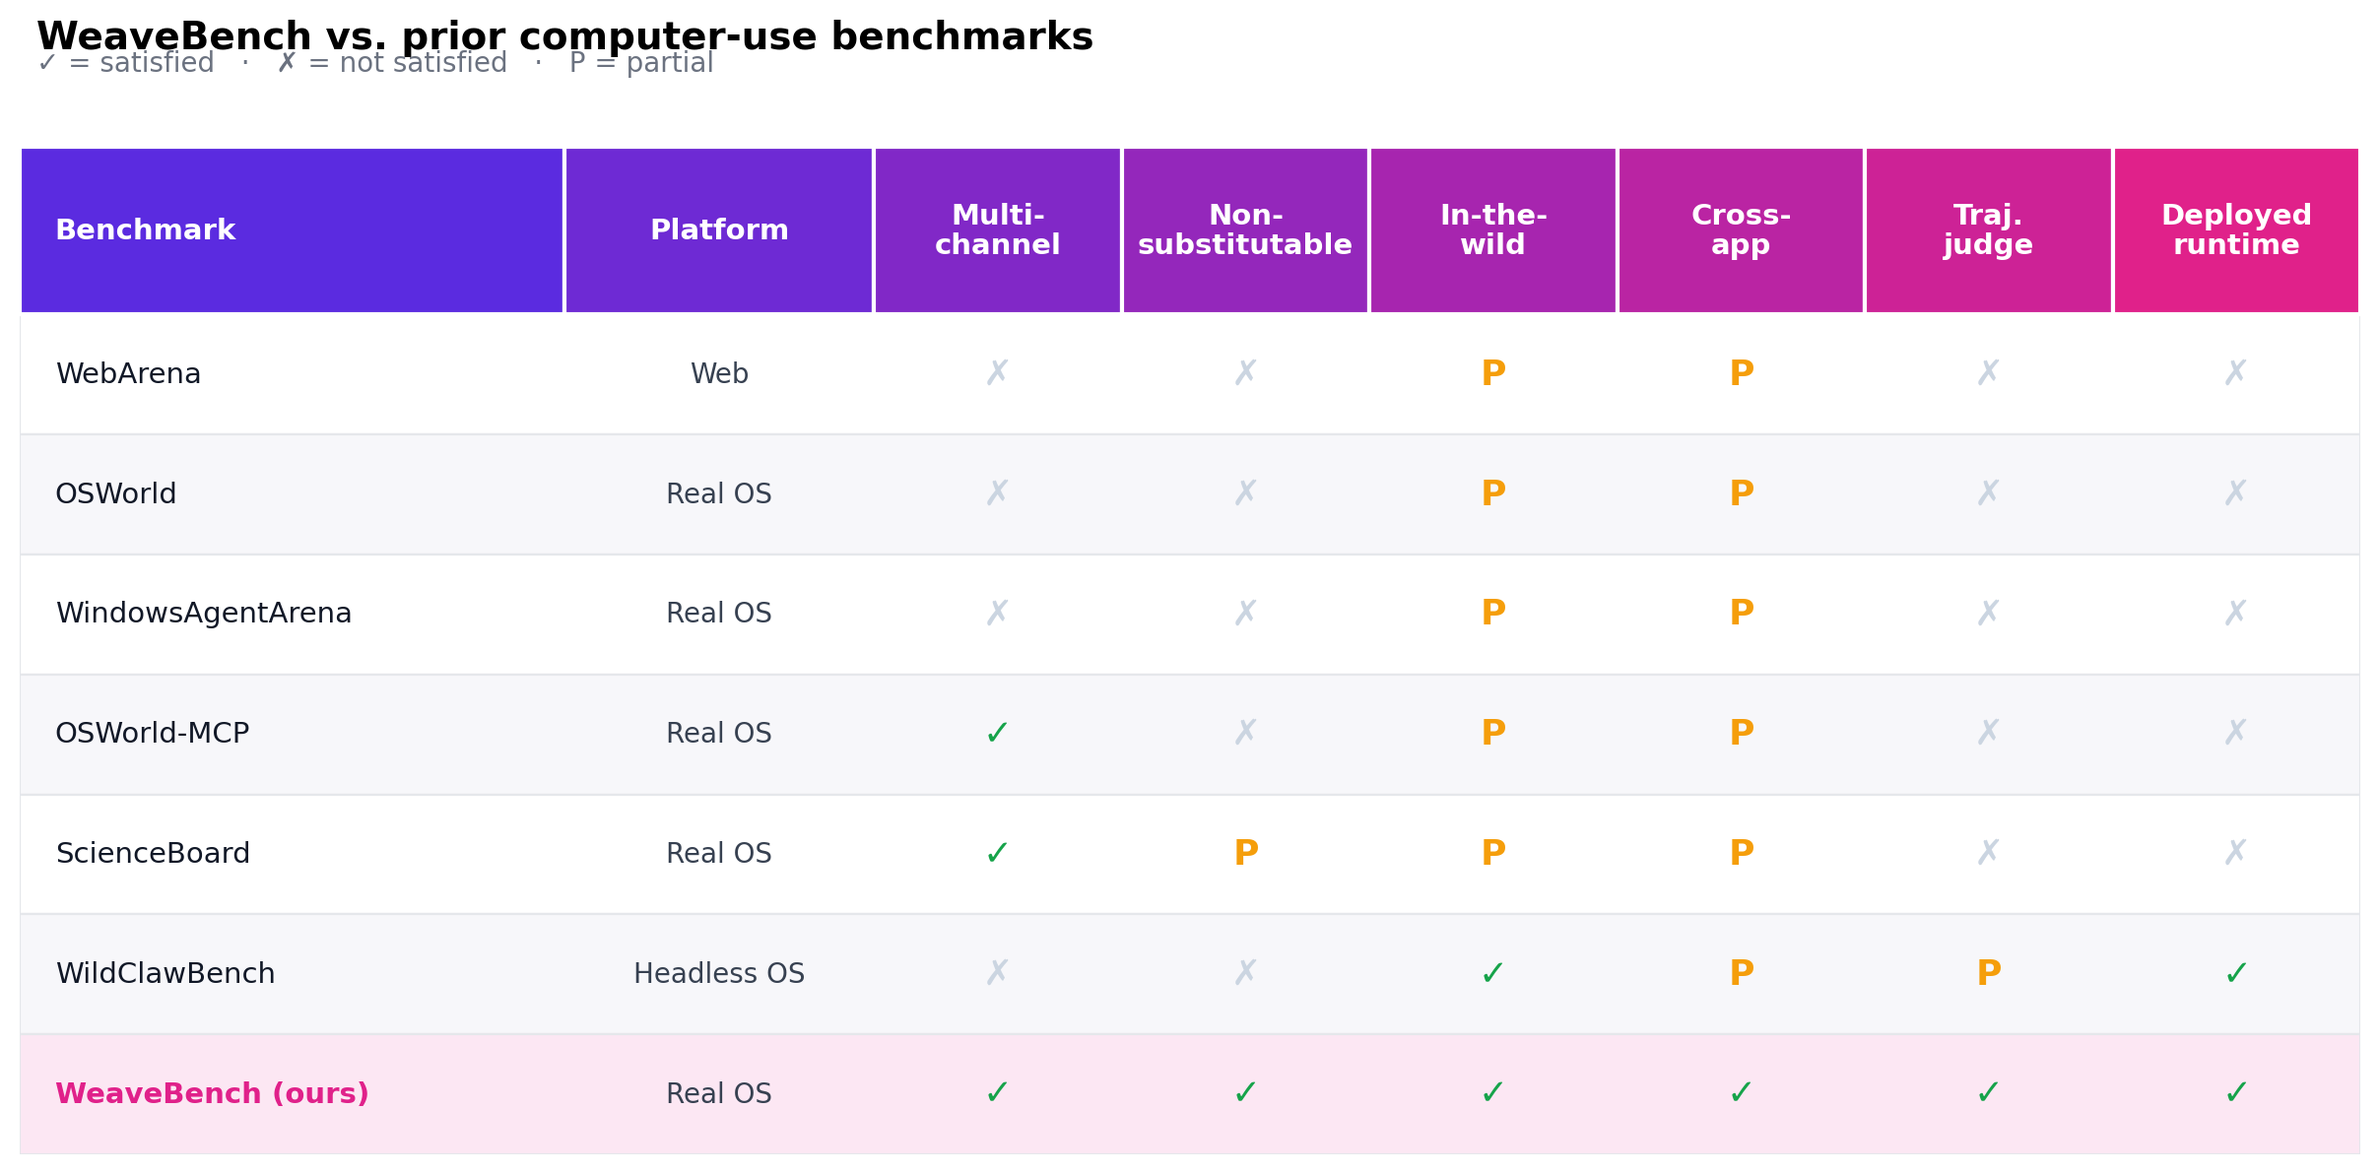
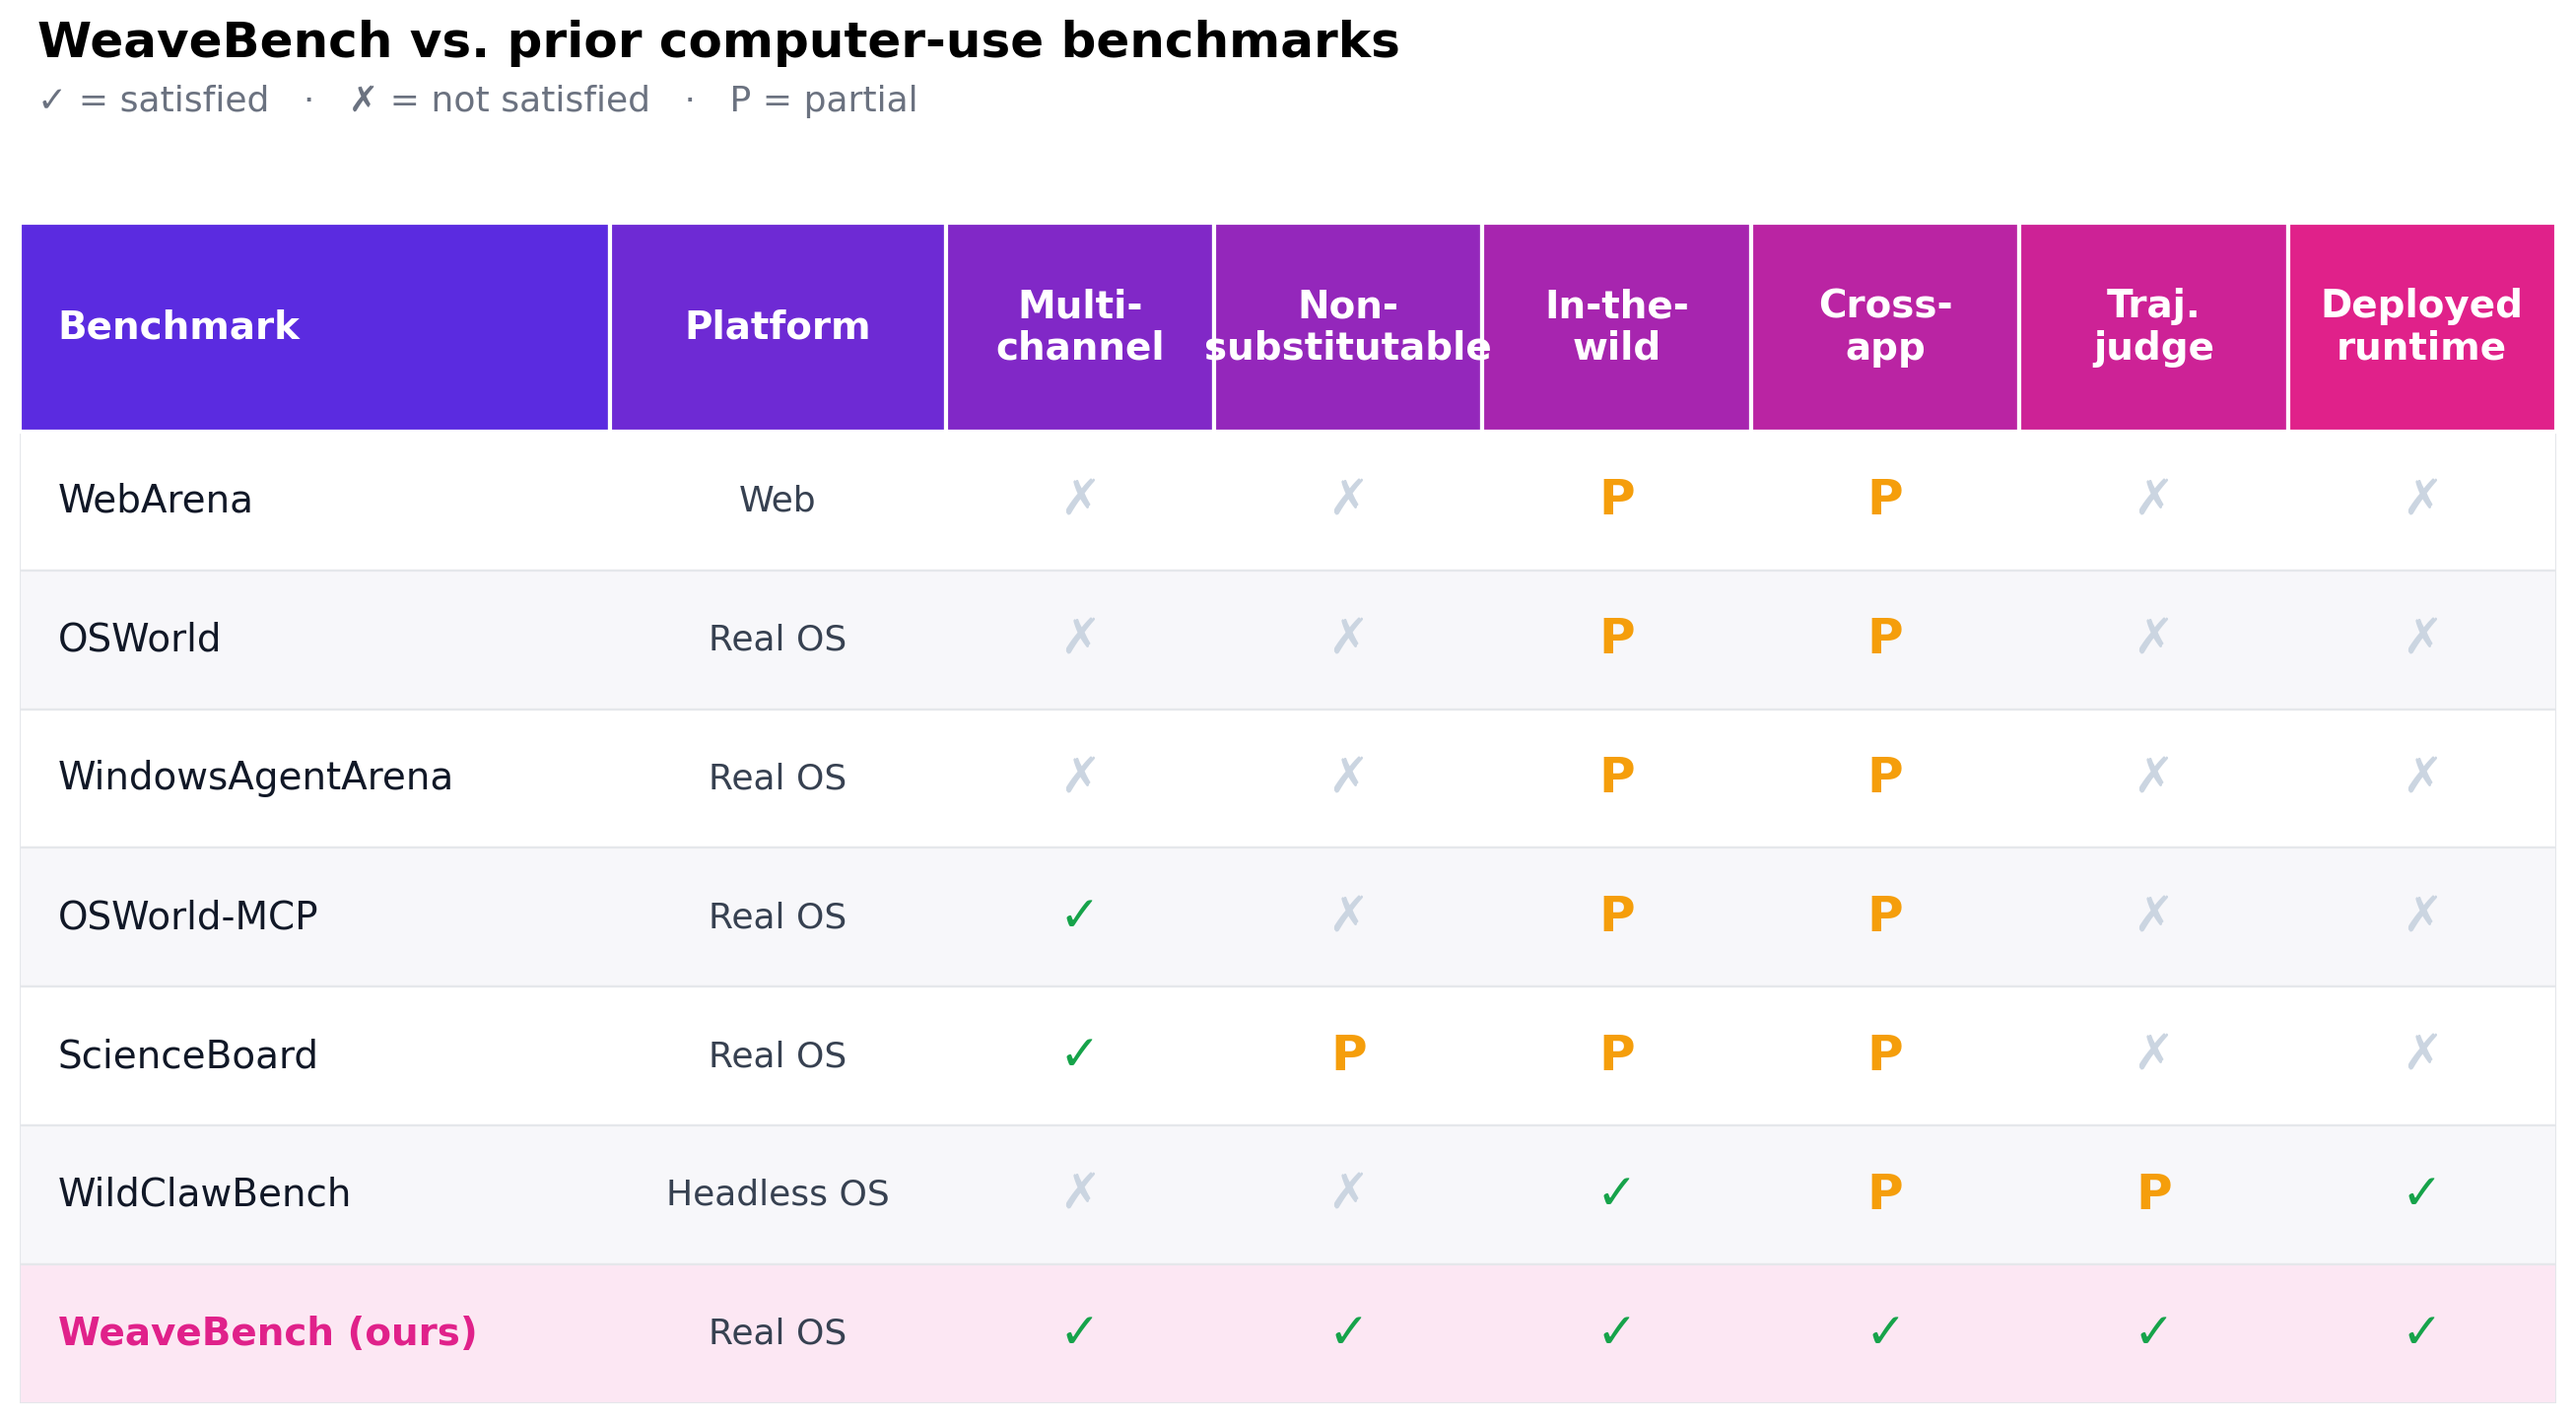
docs: fix duplicate heading, video embed, table widths + bigger table font
- Remove the duplicated "Why hybrid interfaces?" heading; drop the parens
- Embed the demo video as a bare GitHub raw URL (GitHub strips <video> tags,
  so the player never rendered)
- Widen the comparison + leaderboard table images to 100%
- Regenerate comparison_table.png with larger fonts and no title overlap

diff --git a/docs/media/make_comparison_table.py b/docs/media/make_comparison_table.py
@@ -38,8 +38,8 @@ n_rows = len(ROWS)
 n_cols = len(COLS)
 
 # Header occupies 1.4 row-heights to fit the two-line labels; rows start below.
-HDR_H = 1.4
-fig_w, fig_h = 12.0, 0.6 * (n_rows + HDR_H + 1.4)
+HDR_H = 1.5
+fig_w, fig_h = 13.0, 0.72 * (n_rows + HDR_H + 1.4)
 fig, ax = plt.subplots(figsize=(fig_w, fig_h), dpi=200)
 ax.set_xlim(0, n_cols)
 ax.set_ylim(0, n_rows + HDR_H)
@@ -62,8 +62,8 @@ for c in range(n_cols):
                                facecolor=grad, edgecolor="white", lw=1.5, zorder=1))
     ha = "left" if c == 0 else "center"
     tx = col_x[c] + 0.12 if c == 0 else cell_center(c)
-    ax.text(tx, hy + HDR_H / 2, COLS[c], color="white", fontsize=10.5,
-            fontweight="bold", ha=ha, va="center", linespacing=1.1, zorder=2)
+    ax.text(tx, hy + HDR_H / 2, COLS[c], color="white", fontsize=14,
+            fontweight="bold", ha=ha, va="center", linespacing=1.15, zorder=2)
 
 # --- data rows ---
 for r, row in enumerate(ROWS):
@@ -78,22 +78,22 @@ for r, row in enumerate(ROWS):
     for c, val in enumerate(row):
         if c == 0:
             color = PINK if is_ours else "#111827"
-            ax.text(col_x[0] + 0.12, y + 0.5, val, color=color, fontsize=10.5,
+            ax.text(col_x[0] + 0.12, y + 0.5, val, color=color, fontsize=14,
                     fontweight="bold" if is_ours else "normal",
                     ha="left", va="center", zorder=2)
         elif c == 1:
             ax.text(cell_center(c), y + 0.5, val, color="#374151",
-                    fontsize=10, ha="center", va="center", zorder=2)
+                    fontsize=13, ha="center", va="center", zorder=2)
         else:
             color = SYM_COLOR.get(val, "#111827")
-            ax.text(cell_center(c), y + 0.5, val, color=color, fontsize=13,
+            ax.text(cell_center(c), y + 0.5, val, color=color, fontsize=18,
                     fontweight="bold", ha="center", va="center", zorder=2)
 
 # --- title + subtitle above the table ---
-fig.suptitle(TITLE, x=0.012, y=0.99, ha="left", fontsize=14, fontweight="bold")
-fig.text(0.012, 0.945, SUBTITLE, ha="left", fontsize=10, color="#6b7280")
+fig.suptitle(TITLE, x=0.012, y=0.995, ha="left", fontsize=18, fontweight="bold")
+fig.text(0.012, 0.93, SUBTITLE, ha="left", fontsize=13, color="#6b7280")
 
-plt.subplots_adjust(left=0.005, right=0.995, top=0.88, bottom=0.01)
+plt.subplots_adjust(left=0.005, right=0.995, top=0.85, bottom=0.01)
 out = __file__.rsplit("/", 1)[0] + "/comparison_table.png"
 fig.savefig(out, dpi=200, bbox_inches="tight", facecolor="white")
 print("wrote", out)

diff --git a/README.md b/README.md
@@ -33,15 +33,10 @@
 
 ## 🎬 Demo
 
-<p align="center">
-  <video src="https://github.com/weavebench/WeaveBench/raw/main/docs/media/rabbitmq_dlq_demo.mp4" width="100%" controls muted>
-    <!-- Fallback for renderers that don't inline video (e.g. some mirrors) -->
-    <a href="https://weavebench.github.io/static/videos/rabbitmq_dlq_topology_mgmt.mp4">▶ Watch the demo</a>
-  </video>
-</p>
+https://github.com/weavebench/WeaveBench/raw/main/docs/media/rabbitmq_dlq_demo.mp4
 
 <p align="center">
-  <em>An agent diagnosing a RabbitMQ dead-letter-queue routing black-hole end-to-end (OPS domain, sped up 10×). It cross-checks the broker over the CLI and the Management UI on screen, fixes the binding, and re-verifies — exactly the GUI↔CLI interleaving WeaveBench requires.</em>
+  <em>An agent diagnosing a RabbitMQ dead-letter-queue routing black-hole end-to-end (OPS domain, sped up 10×). It cross-checks the broker over the CLI and the Management UI on screen, fixes the binding, and re-verifies — exactly the GUI↔CLI interleaving WeaveBench requires. Can't see the player? <a href="https://weavebench.github.io/static/videos/rabbitmq_dlq_topology_mgmt.mp4">Watch the demo here</a>.</em>
 </p>
 
 <br />
@@ -54,14 +49,12 @@
   <em>Three more cross-channel workflows at a glance. Browse <a href="https://weavebench.github.io">all task demos on the website</a>.</em>
 </p>
 
-## Why hybrid interfaces? (the core claim)
-
-## Why hybrid interfaces? (the core claim)
+## Why hybrid interfaces?
 
 GUI and CLI/code carry **fundamentally different state**, so neither suffices alone — GUIs expose transient rendered state (canvases, dialogs, chart tooltips, spatial layout) that no API returns, while CLI/code carries persistent scriptable state (source, configs, logs, services) that no screenshot can produce. WeaveBench admits a task only when success *requires* weaving the two together (criterion P1 in the paper). That single admission rule is what separates it from prior "multi-interface" benchmarks where the extra channel is a convenience, not a requirement:
 
 <p align="center">
-  <img src="./docs/media/comparison_table.png" width="92%" alt="WeaveBench vs. prior computer-use benchmarks: the only one that is multi-channel, non-substitutable, in-the-wild, cross-app, trajectory-judged, and deployed-runtime" />
+  <img src="./docs/media/comparison_table.png" width="100%" alt="WeaveBench vs. prior computer-use benchmarks: the only one that is multi-channel, non-substitutable, in-the-wild, cross-app, trajectory-judged, and deployed-runtime" />
 </p>
 
 > Full positioning table + per-task falsifiers in the [paper](https://arxiv.org/abs/2606.09426).
@@ -89,13 +82,13 @@ The judge then checks an explicit **cross-channel evidence chain** (`cross_chann
 **Table 1 — Fixed harness (OpenClaw), varying backbone.** PR = PassRate (%) at τ=0.80; Overall = mean per-task score over all 114 tasks. Per-domain columns are PassRate.
 
 <p align="center">
-  <img src="./docs/media/leaderboard_table1.png" width="92%" alt="WeaveBench Table 1: model API comparison on a fixed OpenClaw runtime" />
+  <img src="./docs/media/leaderboard_table1.png" width="100%" alt="WeaveBench Table 1: model API comparison on a fixed OpenClaw runtime" />
 </p>
 
 **Table 2 — Strongest APIs × 4 agent runtimes.** Same model API, runtime swapped. The model on its native runtime dominates; cross-pairing collapses.
 
 <p align="center">
-  <img src="./docs/media/leaderboard_table2.png" width="92%" alt="WeaveBench Table 2: strongest model APIs across four agent runtimes" />
+  <img src="./docs/media/leaderboard_table2.png" width="100%" alt="WeaveBench Table 2: strongest model APIs across four agent runtimes" />
 </p>
 
 > Two findings the numbers make concrete: **(1)** frontier backbones report >78% on OSWorld-Verified — WeaveBench is **far from saturation**; **(2)** runtime alignment matters as much as the model — the *same* GPT-5.5 API swings **20 pts** (35.1% on Codex CLI → 14.9% on Claude Code). The two most GUI-heavy domains (SPA, DES) are the bottom of the table for nearly every backbone, pinning the GUI side as the binding constraint. Reproduce exactly with [`docs/REPRODUCE.md`](./docs/REPRODUCE.md); [submit your own pairing](#-submit-your-results).
